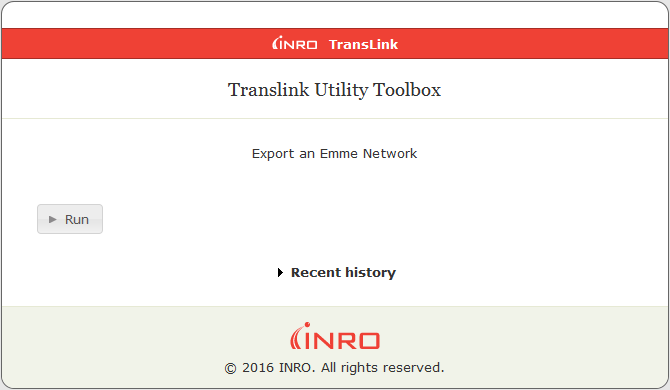
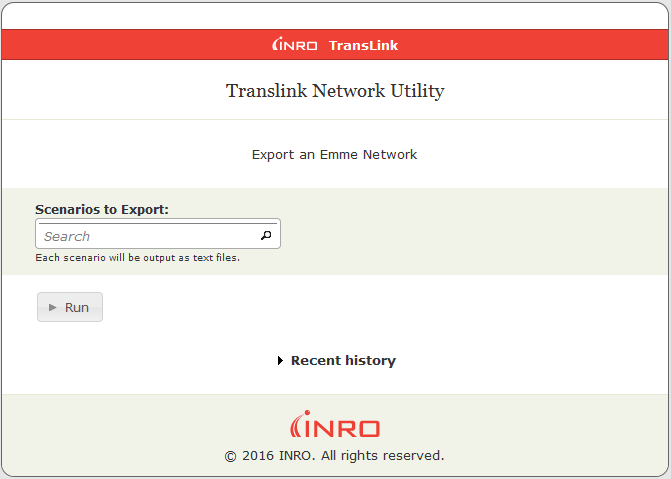
RTM: update network import tools descriptions
Update screenshots and documentation.

diff --git a/RTM/Scripts/Phase3Scripts/ImportNetwork.py b/RTM/Scripts/Phase3Scripts/ImportNetwork.py
@@ -15,8 +15,8 @@ class ImportNetwork(_m.Tool()):
 
     def page(self):
         pb = _m.ToolPageBuilder(self)
-        pb.title = "Translink Utility Toolbox"
-        pb.description = "Export an Emme Network"
+        pb.title = "Translink Network Utility"
+        pb.description = "Import an Emme Network"
         pb.branding_text = "TransLink"
 
         pb.add_text_box(tool_attribute_name="scen_id",

diff --git a/RTM/Scripts/Phase3Scripts/ExportNetwork.py b/RTM/Scripts/Phase3Scripts/ExportNetwork.py
@@ -14,7 +14,7 @@ class ExportNetwork(_m.Tool()):
 
     def page(self):
         pb = _m.ToolPageBuilder(self)
-        pb.title = "Translink Utility Toolbox"
+        pb.title = "Translink Network Utility"
         pb.description = "Export an Emme Network"
         pb.branding_text = "TransLink"
 
